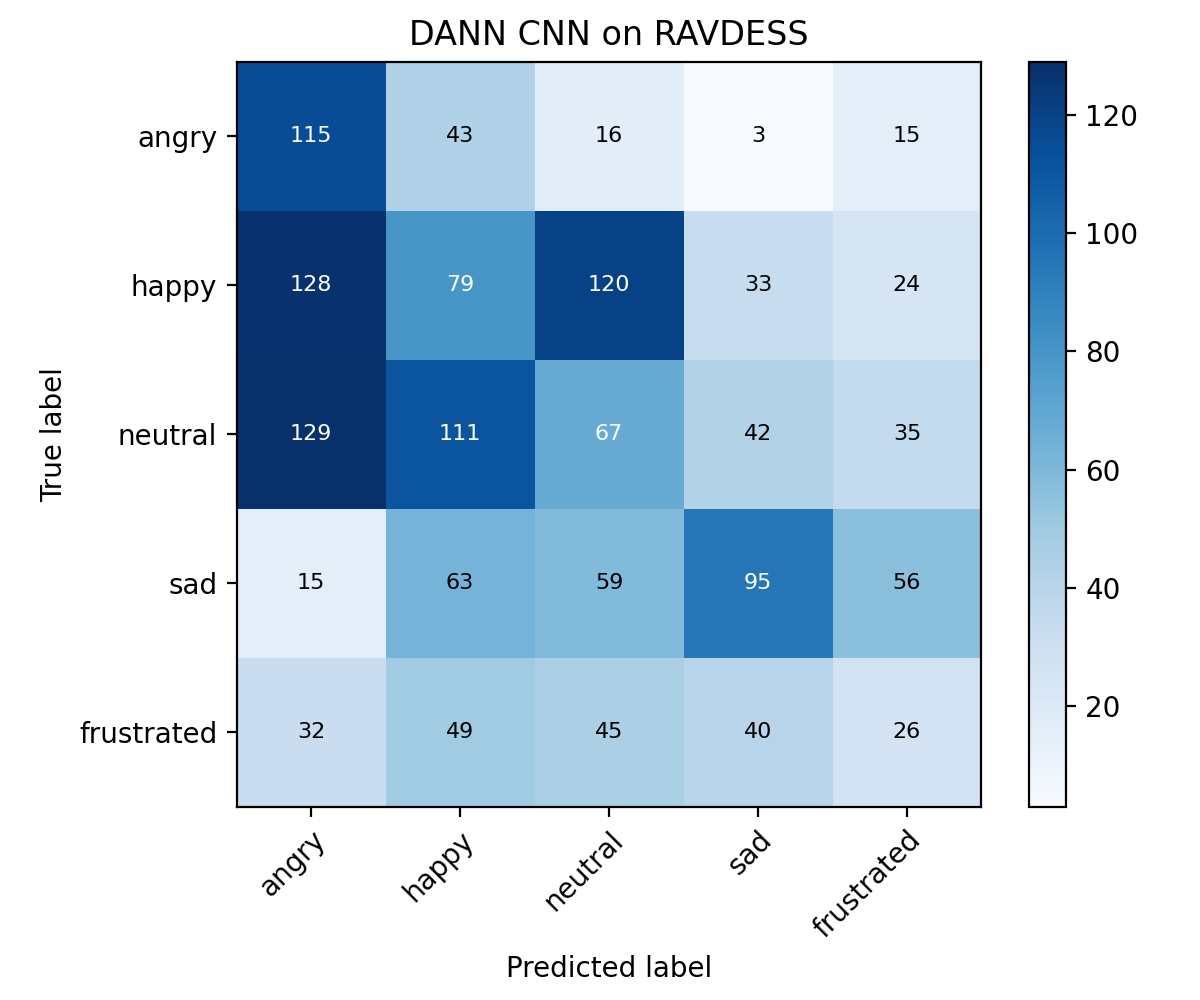
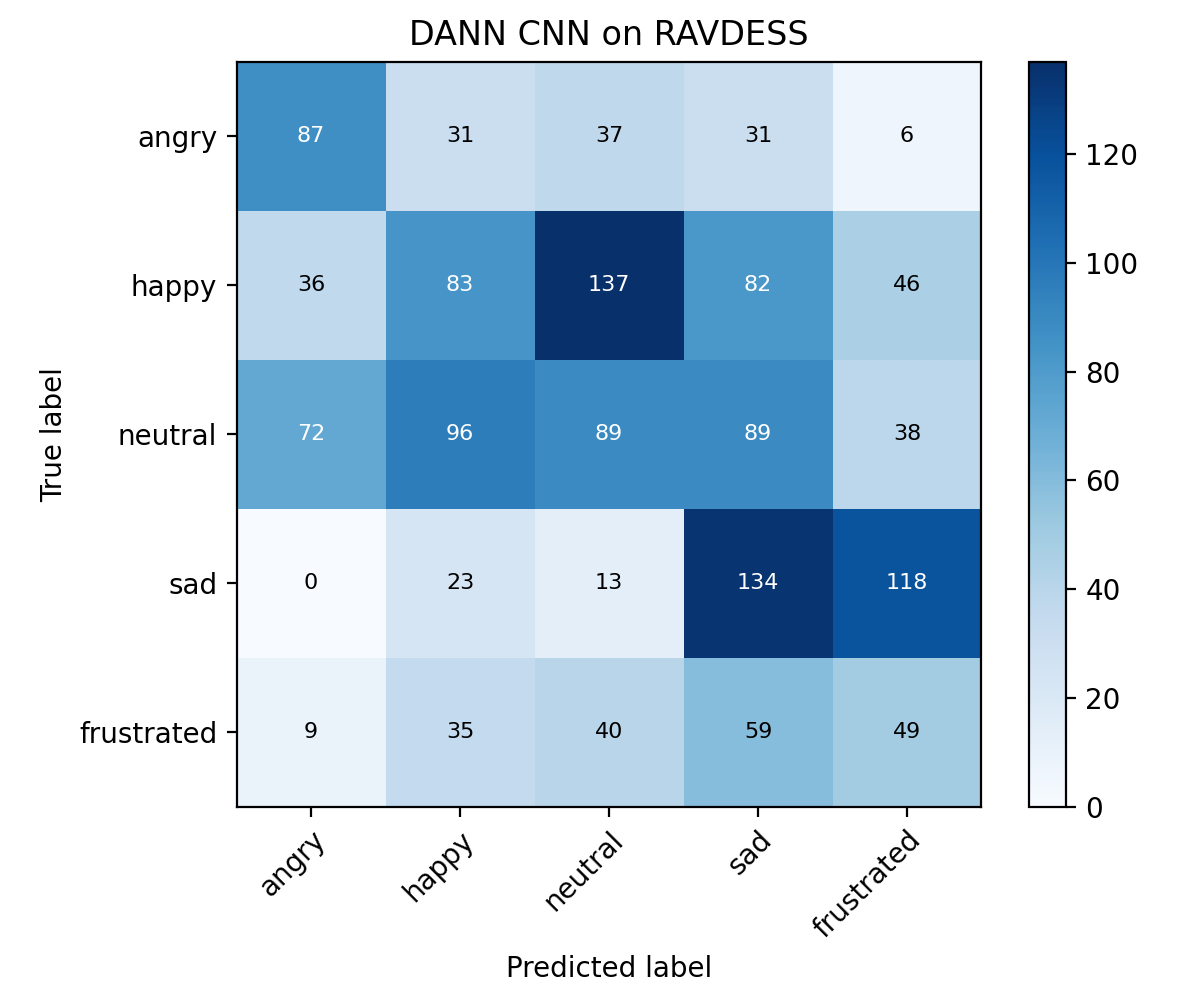
Add data augmentation and optimize DANN hyperparameters

diff --git a/src/data/audio_augmentation.py b/src/data/audio_augmentation.py
@@ -1,0 +1,97 @@
+"""
+Audio augmentation utilities for speech emotion recognition.
+Implements time stretching, pitch shifting, and noise injection.
+"""
+
+import numpy as np
+import librosa
+import torch
+
+
+def time_stretch(y: np.ndarray, sr: int, rate: float = None) -> np.ndarray:
+    """
+    Apply time stretching (speed perturbation) to audio.
+    
+    Args:
+        y: Audio waveform
+        sr: Sample rate
+        rate: Stretch factor (None = random between 0.85 and 1.15)
+    
+    Returns:
+        Stretched audio waveform
+    """
+    if rate is None:
+        rate = np.random.uniform(0.85, 1.15)  # ±15% speed variation
+    
+    return librosa.effects.time_stretch(y, rate=rate)
+
+
+def pitch_shift(y: np.ndarray, sr: int, n_steps: float = None) -> np.ndarray:
+    """
+    Apply pitch shifting to audio.
+    
+    Args:
+        y: Audio waveform
+        sr: Sample rate
+        n_steps: Number of semitones to shift (None = random between -2 and +2)
+    
+    Returns:
+        Pitch-shifted audio waveform
+    """
+    if n_steps is None:
+        n_steps = np.random.uniform(-2.0, 2.0)  # ±2 semitones
+    
+    return librosa.effects.pitch_shift(y, sr=sr, n_steps=n_steps)
+
+
+def add_noise(y: np.ndarray, noise_factor: float = None) -> np.ndarray:
+    """
+    Add Gaussian noise to audio.
+    
+    Args:
+        y: Audio waveform
+        noise_factor: Noise level (None = random between 0.01 and 0.05)
+    
+    Returns:
+        Noisy audio waveform
+    """
+    if noise_factor is None:
+        noise_factor = np.random.uniform(0.01, 0.05)  # 1-5% noise
+    
+    noise = np.random.normal(0, noise_factor, y.shape).astype(y.dtype)
+    return y + noise
+
+
+def apply_augmentation(y: np.ndarray, sr: int, p: float = 0.5) -> np.ndarray:
+    """
+    Apply random augmentation to audio with probability p.
+    
+    Augmentation techniques (applied independently):
+    - Time stretching: probability p
+    - Pitch shifting: probability p
+    - Noise injection: probability p
+    
+    Args:
+        y: Audio waveform
+        sr: Sample rate
+        p: Probability of applying each augmentation
+    
+    Returns:
+        Augmented audio waveform
+    """
+    augmented = y.copy()
+    
+    # Time stretching
+    if np.random.rand() < p:
+        augmented = time_stretch(augmented, sr)
+    
+    # Pitch shifting
+    if np.random.rand() < p:
+        augmented = pitch_shift(augmented, sr)
+    
+    # Noise injection
+    if np.random.rand() < p:
+        augmented = add_noise(augmented)
+    
+    return augmented
+

diff --git a/src/dann/dann_dataloaders.py b/src/dann/dann_dataloaders.py
@@ -14,6 +14,7 @@ def create_dann_loaders(
     ravdess_base: str,
     batch_size: int = 32,
     num_workers: int = 4,
+    augment: bool = True,
 ):
     """
     Create DANN dataloaders for domain adaptation.
@@ -23,14 +24,16 @@ def create_dann_loaders(
         ravdess_base: Base path to RAVDESS dataset
         batch_size: Batch size for dataloaders
         num_workers: Number of worker processes for data loading
+        augment: Enable augmentation for source dataset (default: True for training)
     """
     # 1) RAVDESS metadata (all actors)
     ravdess_samples = load_ravdess_metadata(ravdess_base)
 
     # 2) Build datasets
     # domain_id: 0 = IEMOCAP, 1 = RAVDESS
-    source_dataset = IEMOCAPDataset(train_iemocap_samples, domain_id=0)
-    target_dataset = RAVDESSDataset(ravdess_samples, domain_id=1)
+    # Enable augmentation only for source dataset (training)
+    source_dataset = IEMOCAPDataset(train_iemocap_samples, domain_id=0, augment=augment)
+    target_dataset = RAVDESSDataset(ravdess_samples, domain_id=1, augment=False)
 
     # 3) Class balancing for source (IEMOCAP)
     labels = torch.tensor([s["label"] for s in train_iemocap_samples], dtype=torch.long)

diff --git a/src/data/ravdess_dataset.py b/src/data/ravdess_dataset.py
@@ -3,15 +3,17 @@ from torch.utils.data import Dataset
 import torch.nn.functional as F
 import librosa
 import numpy as np
+from src.data.audio_augmentation import apply_augmentation
 
 
 class RAVDESSDataset(Dataset):
-    def __init__(self, samples, sr=16000, n_mels=128, max_frames=300, domain_id=None):
+    def __init__(self, samples, sr=16000, n_mels=128, max_frames=300, domain_id=None, augment=False):
         self.samples = samples
         self.sr = sr
         self.n_mels = n_mels
         self.max_frames = max_frames  # fixed time dimension
         self.domain_id = domain_id  # Optional: if provided, returns (mel, label, domain_id)
+        self.augment = augment  # Enable augmentation for training (typically False for target domain)
 
     def __len__(self):
         return len(self.samples)
@@ -23,6 +25,10 @@ class RAVDESSDataset(Dataset):
 
         # Load audio
         y, sr = librosa.load(wav_path, sr=self.sr)
+        
+        # Apply augmentation if enabled (typically False for target domain)
+        if self.augment:
+            y = apply_augmentation(y, sr, p=0.5)
 
         # Mel-spectrogram
         S = librosa.feature.melspectrogram(

diff --git a/src/data/iemocap_dataset.py b/src/data/iemocap_dataset.py
@@ -3,15 +3,17 @@ from torch.utils.data import Dataset
 import torch.nn.functional as F
 import librosa
 import numpy as np
+from src.data.audio_augmentation import apply_augmentation
 
 
 class IEMOCAPDataset(Dataset):
-    def __init__(self, samples, sr=16000, n_mels=128, max_frames=300, domain_id=None):
+    def __init__(self, samples, sr=16000, n_mels=128, max_frames=300, domain_id=None, augment=False):
         self.samples = samples
         self.sr = sr
         self.n_mels = n_mels
         self.max_frames = max_frames  # fixed time dimension
         self.domain_id = domain_id  # Optional: if provided, returns (mel, label, domain_id)
+        self.augment = augment  # Enable augmentation for training
 
     def __len__(self):
         return len(self.samples)
@@ -23,6 +25,10 @@ class IEMOCAPDataset(Dataset):
 
         # Load audio
         y, sr = librosa.load(wav_path, sr=self.sr)
+        
+        # Apply augmentation if enabled (for training)
+        if self.augment:
+            y = apply_augmentation(y, sr, p=0.5)
 
         # Mel-spectrogram
         S = librosa.feature.melspectrogram(

diff --git a/src/dann/model_dann.py b/src/dann/model_dann.py
@@ -86,16 +86,17 @@ class DANNEmotionModel(nn.Module):
         self.grl = GradientReversal()
 
         # Emotion classifier head (deeper with gradual reduction: 256→128→64→5)
+        # Reduced dropout from 0.3 to 0.25 for better capacity utilization
         self.classifier = nn.Sequential(
             nn.Linear(self.lstm_hidden * 2, 256),
             nn.ReLU(),
-            nn.Dropout(0.3),
+            nn.Dropout(0.25),
             nn.Linear(256, 128),
             nn.ReLU(),
-            nn.Dropout(0.3),
+            nn.Dropout(0.25),
             nn.Linear(128, 64),
             nn.ReLU(),
-            nn.Dropout(0.3),
+            nn.Dropout(0.25),
             nn.Linear(64, num_classes),
         )
 

diff --git a/src/dann/train_dann.py b/src/dann/train_dann.py
@@ -23,10 +23,10 @@ MODELS_DIR = "models"
 os.makedirs(MODELS_DIR, exist_ok=True)
 BEST_MODEL_PATH = os.path.join(MODELS_DIR, "best_dann_emotion_cnn.pt")
 
-NUM_EPOCHS = 50
+NUM_EPOCHS = 100
 BATCH_SIZE = 16
 LR = 5e-4  # Reduced from 1e-3 for deeper model stability
-LAMBDA_DOMAIN = 0.5
+LAMBDA_DOMAIN = 0.7  # Increased from 0.5 for stronger domain adaptation
 
 
 def evaluate(model, loader, criterion):

diff --git a/README.md b/README.md
@@ -227,15 +227,17 @@ python -m src.wav2vec.eval_ravdess_wav2vec_dann
 | Model               | IEMOCAP Test Accuracy | RAVDESS Accuracy | Parameters |
 | ------------------- | --------------------- | ---------------- | ---------- |
 | **Baseline CRNN**   | ~44%                  | ~14%             | ~2.2M      |
-| **DANN CRNN**       | ~45%                  | ~27%             | ~2.5M      |
+| **DANN CRNN**       | ~45%                  | ~31%             | ~2.2M      |
 | **Wav2Vec2 + DANN** | ~42%                  | ~27%             | ~95M       |
 
 ### Key Observations
 
 - **Domain Shift**: Baseline model shows significant performance drop on RAVDESS (~14% vs ~44% on IEMOCAP)
-- **Domain Adaptation**: DANN improves cross-domain performance by ~13% on RAVDESS (~27% vs ~14%) while maintaining IEMOCAP accuracy (~45%)
+- **Domain Adaptation**: DANN improves cross-domain performance by ~17% on RAVDESS (~31% vs ~14%) while maintaining IEMOCAP accuracy (~45%)
 - **Architecture Improvements**: 2-layer BiLSTM and deeper classifier (256→128→64→5) with attention mechanism improve both source and target domain performance
 - **Training Optimization**: Learning rate scheduling (5e-4 initial LR with ReduceLROnPlateau) enables better convergence for deeper architectures
+- **Data Augmentation**: Time stretching, pitch shifting, and noise injection improve model generalization and cross-domain performance
+- **Hyperparameter Tuning**: Lambda domain weight (0.7) and optimized dropout (0.25) further enhance domain adaptation
 - **Pre-trained Models**: Wav2Vec2 + DANN matches DANN CRNN cross-domain performance (~27% on RAVDESS) but requires more computational resources
 
 Confusion matrices for all evaluations are saved in the `results/` directory.
@@ -252,16 +254,17 @@ Confusion matrices for all evaluations are saved in the `results/` directory.
 
 ### DANN CRNN
 
-- **Epochs**: 50
+- **Epochs**: 100
 - **Batch Size**: 16
 - **Learning Rate**: 5e-4 (initial, with ReduceLROnPlateau scheduler)
 - **LR Scheduler**: ReduceLROnPlateau (patience=5, factor=0.7)
 - **Optimizer**: Adam
 - **Loss**: Cross-entropy (classification) + domain loss
-- **Lambda Domain**: 0.5
+- **Lambda Domain**: 0.7 (increased from 0.5 for stronger domain adaptation)
 - **Max Alpha** (GRL): 0.7
 - **BiLSTM Layers**: 2 (dropout=0.2 between layers)
-- **Classifier**: 256→128→64→5 (dropout=0.3)
+- **Classifier**: 256→128→64→5 (dropout=0.25, optimized from 0.3)
+- **Data Augmentation**: Time stretching (±15%), pitch shifting (±2 semitones), noise injection (1-5%) applied to source domain training samples
 
 ### Wav2Vec2 + DANN
 
